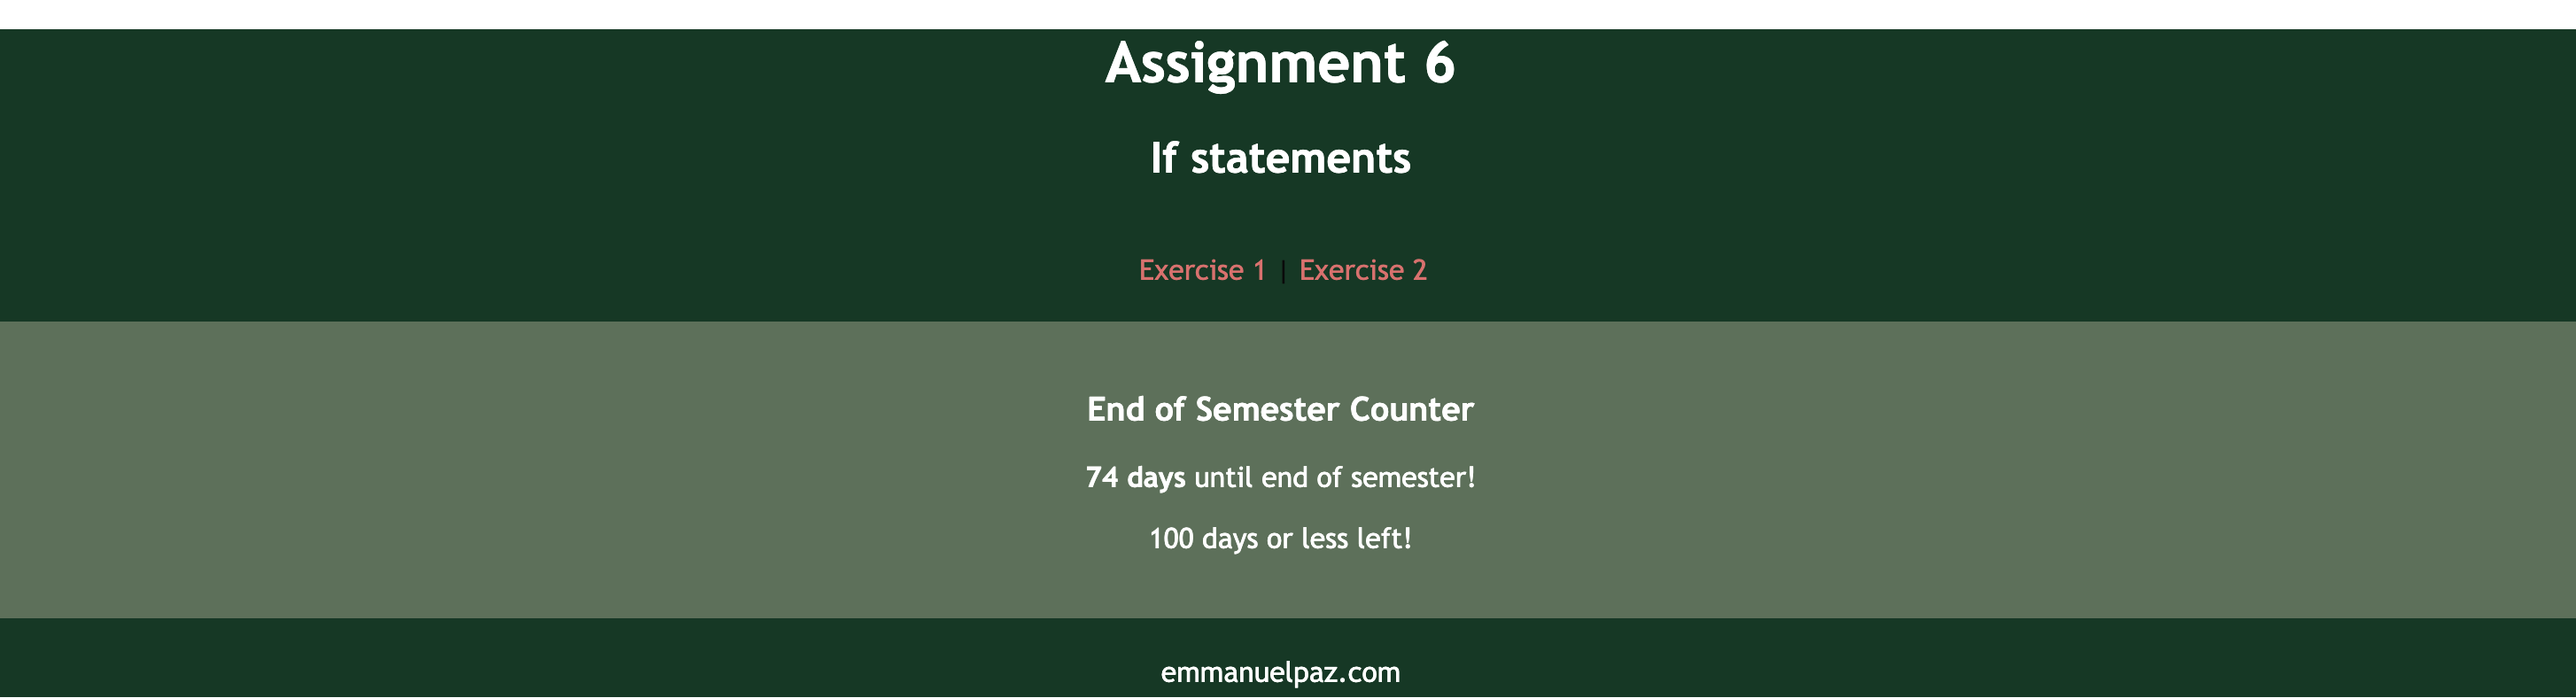
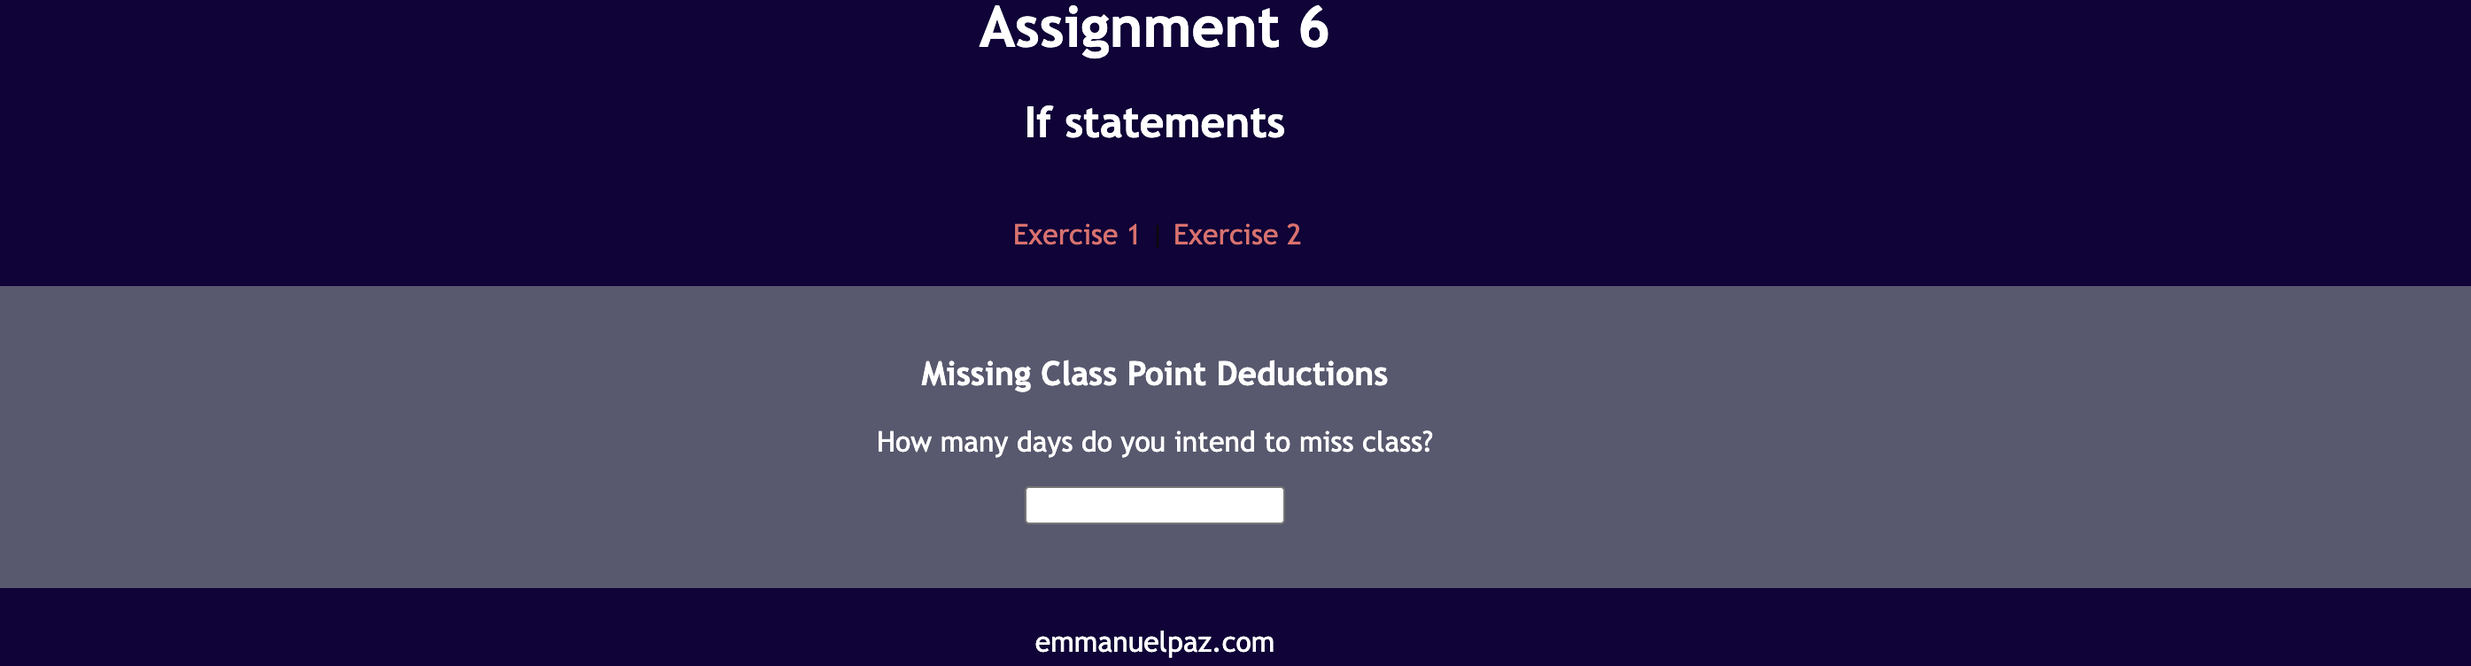
changed image for porfolio card

diff --git a/csce242/assignments/06js/styles.css b/csce242/assignments/06js/styles.css
@@ -1,7 +1,7 @@
 #content {
     margin: auto;
     font-family: 'Trebuchet MS', 'Lucida Sans Unicode', 'Lucida Grande', 'Lucida Sans', Arial, sans-serif;
-    background: rgb(3, 57, 35);
+    background: rgb(17, 3, 57);
     color: white;
 }
 
@@ -21,7 +21,7 @@
 
 #exercise-content {
     text-align: center;
-    background: rgb(88, 112, 88);
+    background: rgb(88, 88, 112);
     padding: 20px;
     color: white;
 }
